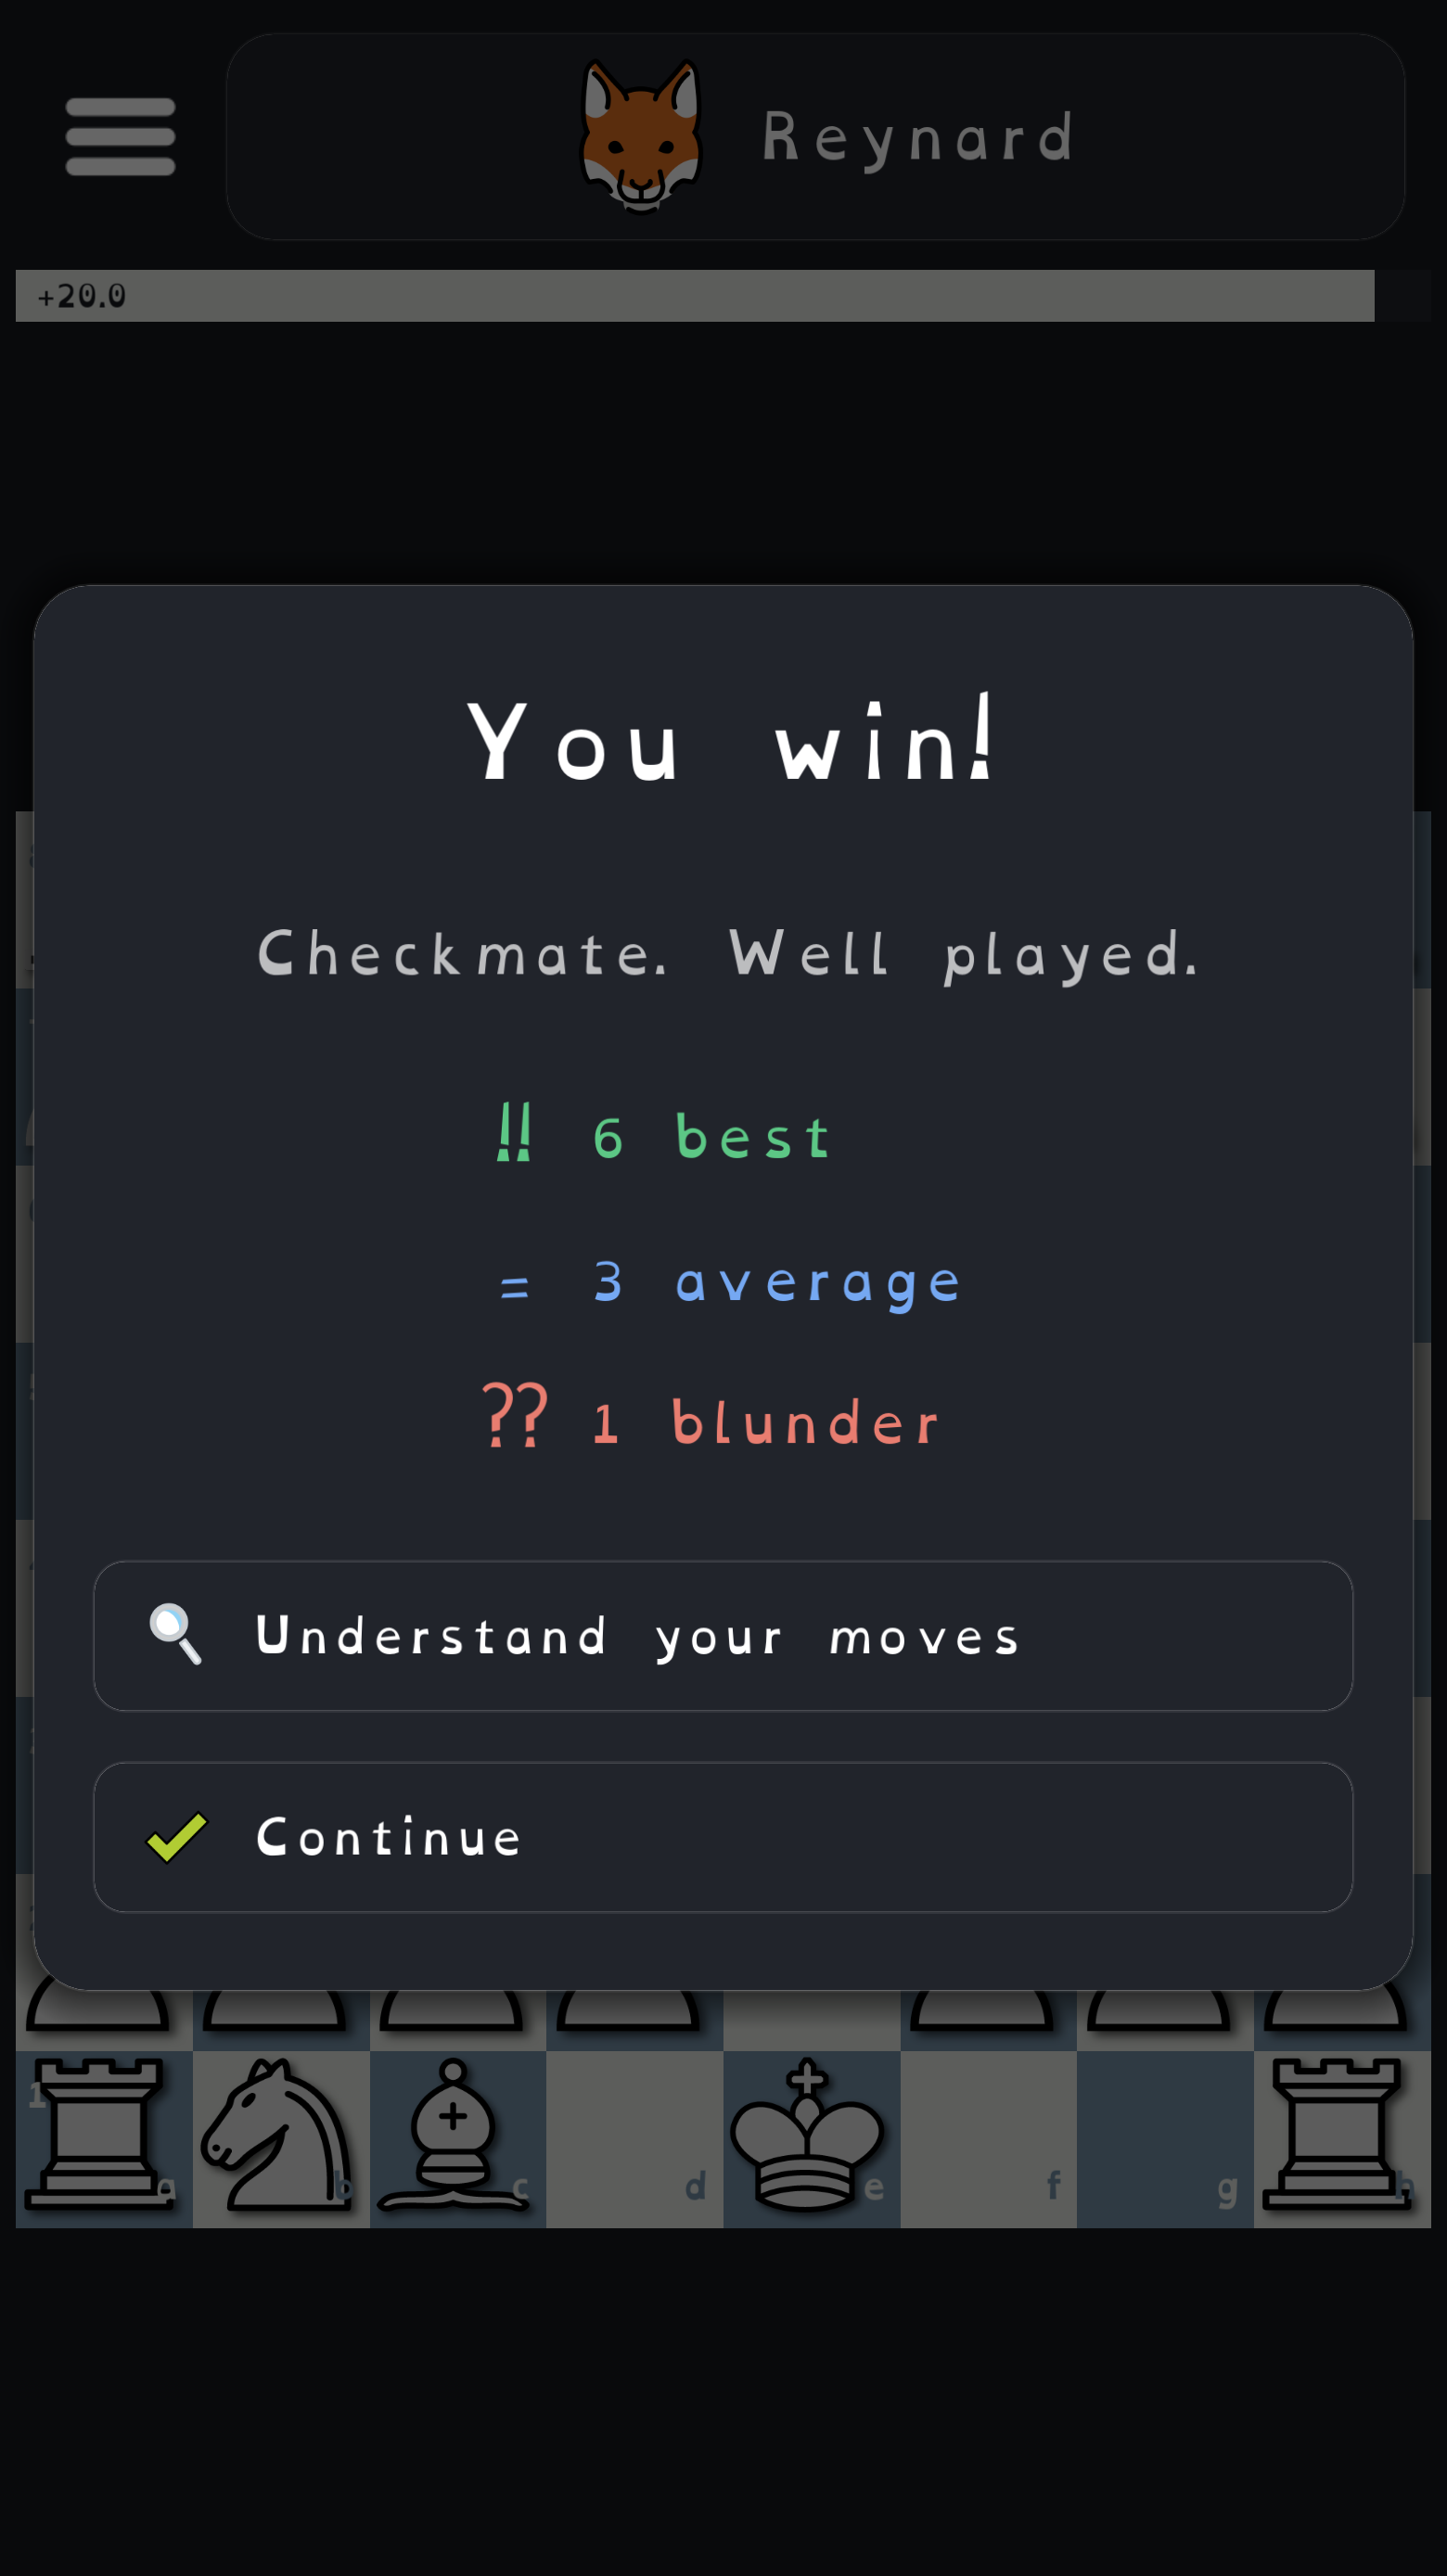
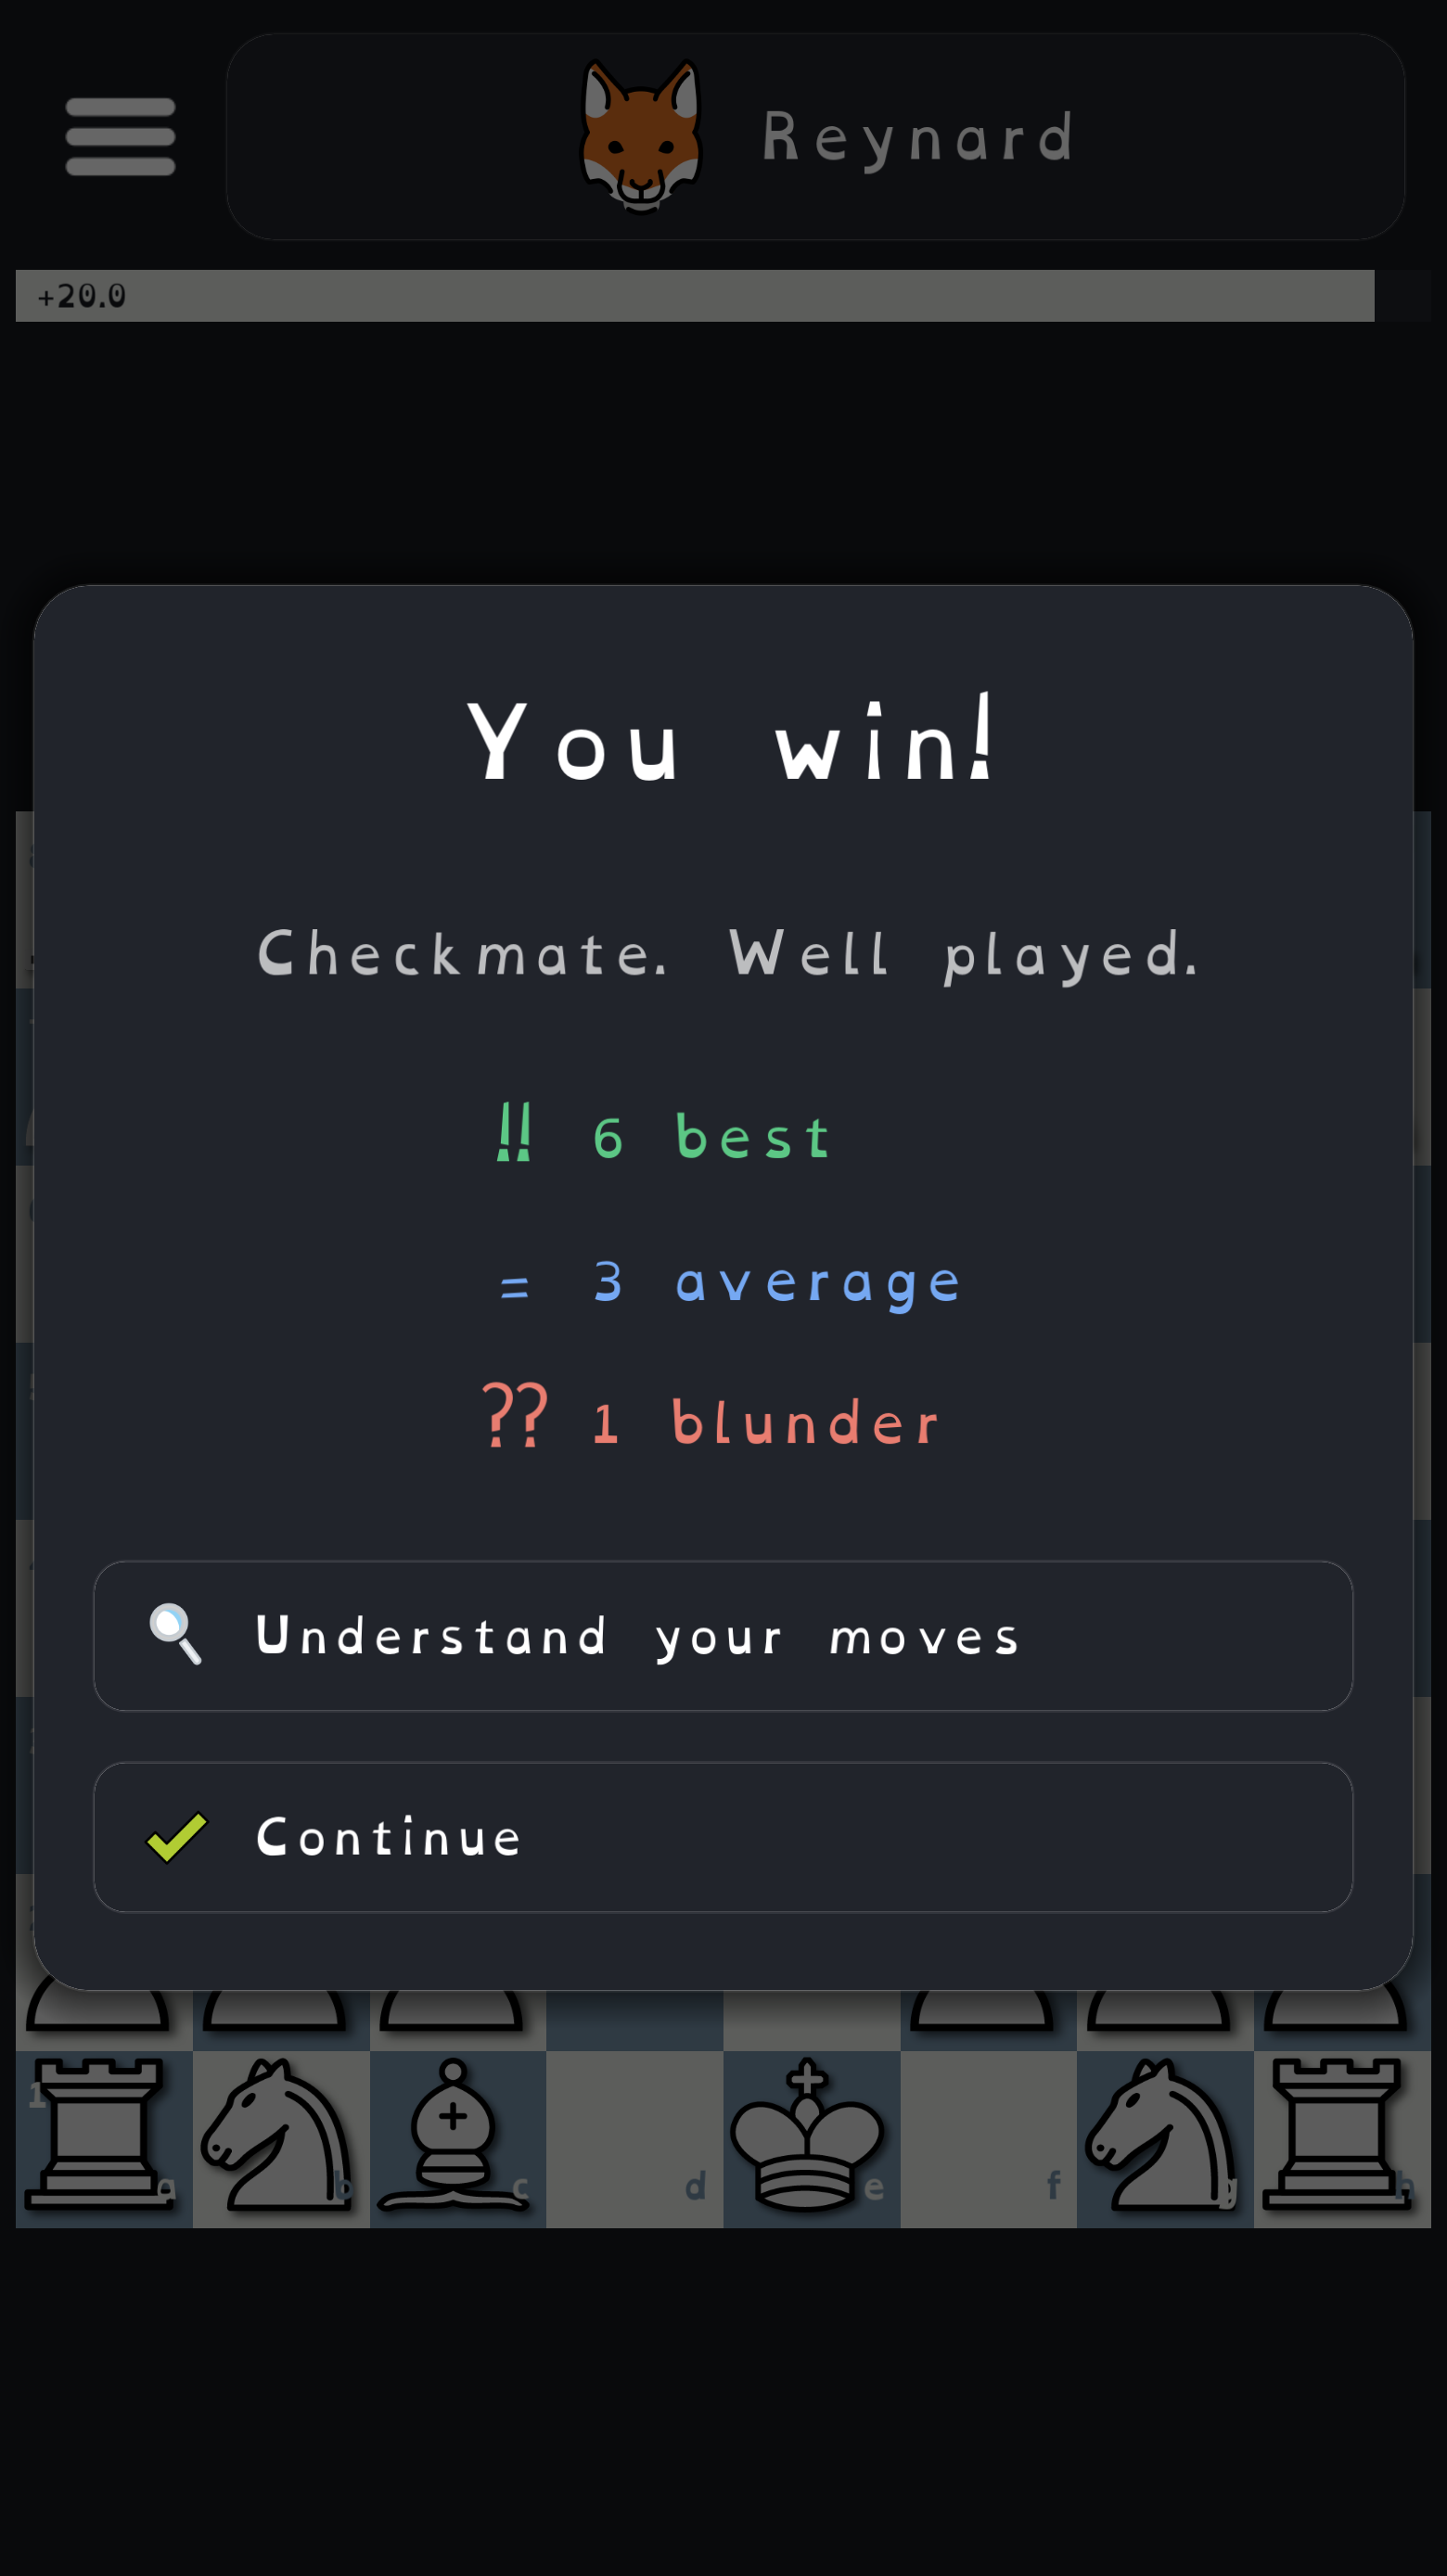
feat: enhance README and index with new features, add screenshots for improved documentation

Changed region(s): [[0.7385, 0.8049, 0.8615, 0.8668], [0.3692, 0.7739, 0.4923, 0.8049]]

diff --git a/docs/index.html b/docs/index.html
@@ -63,6 +63,10 @@
             <p>A rising streak of real puzzles, each still just three moves. Start gentle and see how far up the ladder you can go.</p>
           </div>
           <div class="feature">
+            <h3>Review every game</h3>
+            <p>Step through afterwards to see the best line, replay exactly where a move went wrong, and watch the evaluation swing. Every game teaches you something.</p>
+          </div>
+          <div class="feature">
             <h3>Grows with you</h3>
             <p>Opponents from a gentle first-timer to a real challenge, with a relative difficulty meter, not a scary rating. Beatable when you start, tough when you're ready.</p>
           </div>
@@ -101,9 +105,14 @@
 
     <section class="band">
       <div class="wrap">
+        <h2 class="section">See it in action</h2>
+        <p class="sub">From your first guided move to reviewing the game, solving puzzles, and playing a friend across the table.</p>
         <div class="shots">
-          <img src="img/home.png" alt="Home screen of Limpid Chess">
-          <img src="img/review.png" alt="End-of-game review with best/average/blunder counts">
+          <img src="img/home.png" alt="Home screen: New game, puzzle streak and Face to Face">
+          <img src="img/moves_review.png" alt="Move-by-move review comparing the best line with the move you played">
+          <img src="img/puzzle.png" alt="Puzzle streak: find the best move and go as far as you can">
+          <img src="img/facetoface.png" alt="Face to Face: two players sharing one device">
+          <img src="img/review.png" alt="End-of-game review with best, average and blunder counts">
         </div>
       </div>
     </section>

diff --git a/README.md b/README.md
@@ -36,7 +36,8 @@ lesson, never the punishment.
 > *Tartakower*
 
 It is built beginner-first but grows with you: the opponents climb from a gentle first-timer to a
-real challenge, and a two-player Face to Face mode is fun at any level.
+real challenge, a rising puzzle streak keeps the tactics coming, and a two-player Face to Face mode
+is fun at any level.
 
 ## How it works
 
@@ -53,14 +54,22 @@ real challenge, and a two-player Face to Face mode is fun at any level.
    yourself.
 
 <p align="center">
-  <img src="docs/img/home.png" width="220" alt="Home screen">
+  <img src="docs/img/home.png" width="200" alt="Home screen">
   &nbsp;
-  <img src="docs/img/review.png" width="220" alt="End-of-game review">
+  <img src="docs/img/moves_review.png" width="200" alt="Move-by-move review: the best line vs the move you played">
+  &nbsp;
+  <img src="docs/img/puzzle.png" width="200" alt="Puzzle streak">
+  &nbsp;
+  <img src="docs/img/facetoface.png" width="200" alt="Face to Face, two players on one device">
 </p>
 
 ## Features
 
 - **Three guided moves every turn**, the whole product, shown neutrally so you must find the best.
+- **Puzzles that climb.** A rising streak of real tactics from the Lichess database, each still just
+  three moves. One attempt a day for free players; unlimited with Premium.
+- **Review every game.** Step through afterwards to see the best line, replay where your move went
+  wrong, and watch the evaluation swing, so every game teaches you something.
 - **Calm and kind.** Soft palette, no clocks, no shame on losing. Feedback teaches, it never scolds.
 - **Bots that grow with you.** Stockfish dialled down for real beginners and kids, climbing to a
   genuine challenge, with a relative difficulty meter instead of a scary rating.
@@ -106,9 +115,12 @@ Building the native Android Stockfish and exporting the app are covered in
 
 Shipped:
 
-- [x] The three-move mechanic, opponents, coins, and end-of-game review
+- [x] The three-move mechanic, opponents, coins, and the move-by-move game review
+- [x] **Puzzles**: a rising-difficulty streak of tactics from the
+      [Lichess open puzzle database](https://database.lichess.org/) (CC0), one wrong move ends the
+      run, beat your best streak, one attempt a day for free players
 - [x] Face to Face local two-player
-- [x] English / French / Spanish localization
+- [x] English / French / Spanish localization (with a language picker built to scale to more)
 - [x] Sound effects and settings
 - [x] One-time Premium via Google Play Billing (localized price, restore, promo codes)
 - [x] Marketing site (landing, privacy, terms)
@@ -118,9 +130,6 @@ Planned:
 - [ ] Publish to Google Play (in progress)
 - [ ] More languages: **Portuguese, German, Italian** (the bundled font also covers Russian,
       Ukrainian, and Greek with no extra work)
-- [ ] **Puzzle Rush** mode: a rising-difficulty streak of tactics from the
-      [Lichess open puzzle database](https://database.lichess.org/) (CC0), one wrong move ends the
-      run, beat your best streak, one attempt a day for free players
 - [ ] Verify the embedded native Stockfish on real Android devices
 - [ ] Upgrade to **Godot 4.7** post-launch (checklist in [HOW_TO.md](HOW_TO.md#upgrade-godot))
 - [ ] Later: Chinese / Japanese / Korean / Arabic (these need an additional font)
@@ -145,7 +154,7 @@ make the corresponding source available under the same licence.
 - **[OpenMoji](https://openmoji.org/)**, UI icons and bot avatars, CC BY-SA 4.0.
 - **[OpenDyslexic](https://opendyslexic.org/)**, the typeface.
 - Chess pieces: **JohnPablok's improved Cburnett set**, CC0.
-- **[Lichess open puzzle database](https://database.lichess.org/)**, CC0 (planned, for Puzzle Rush).
+- **[Lichess open puzzle database](https://database.lichess.org/)**, CC0, for the Puzzles mode.
 
 ---
 